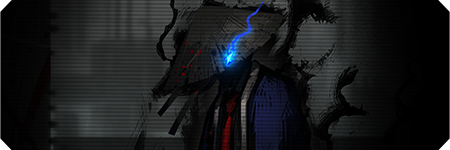
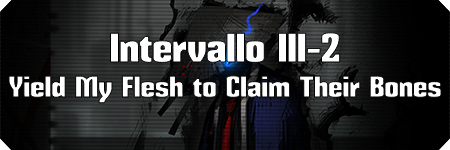
Updated PNGs + Canto 8

diff --git a/index.html b/index.html
@@ -61,6 +61,9 @@
 	  <a href="pages/MidnightSpring2.html" data-background="assets/MidnightSpring2/MidnightSpring2.png">
         <img src="assets/MidnightSpring2.png" alt="MidnightSpring2">
       </a>
+	  <a href="pages/Canto8.html" data-background="assets/Canto8/Canto8.png">
+        <img src="assets/Canto8.png" alt="Canto8">
+      </a>
     </div>
 
     <!-- Dynamic content -->

diff --git a/pages/Canto8.html b/pages/Canto8.html
@@ -1,3 +1,3 @@
 <div class="character-gallery">
-  </a>
+No Untranslated Lines Yet... (Currently Canto 8 Part 1)
 </div>	
